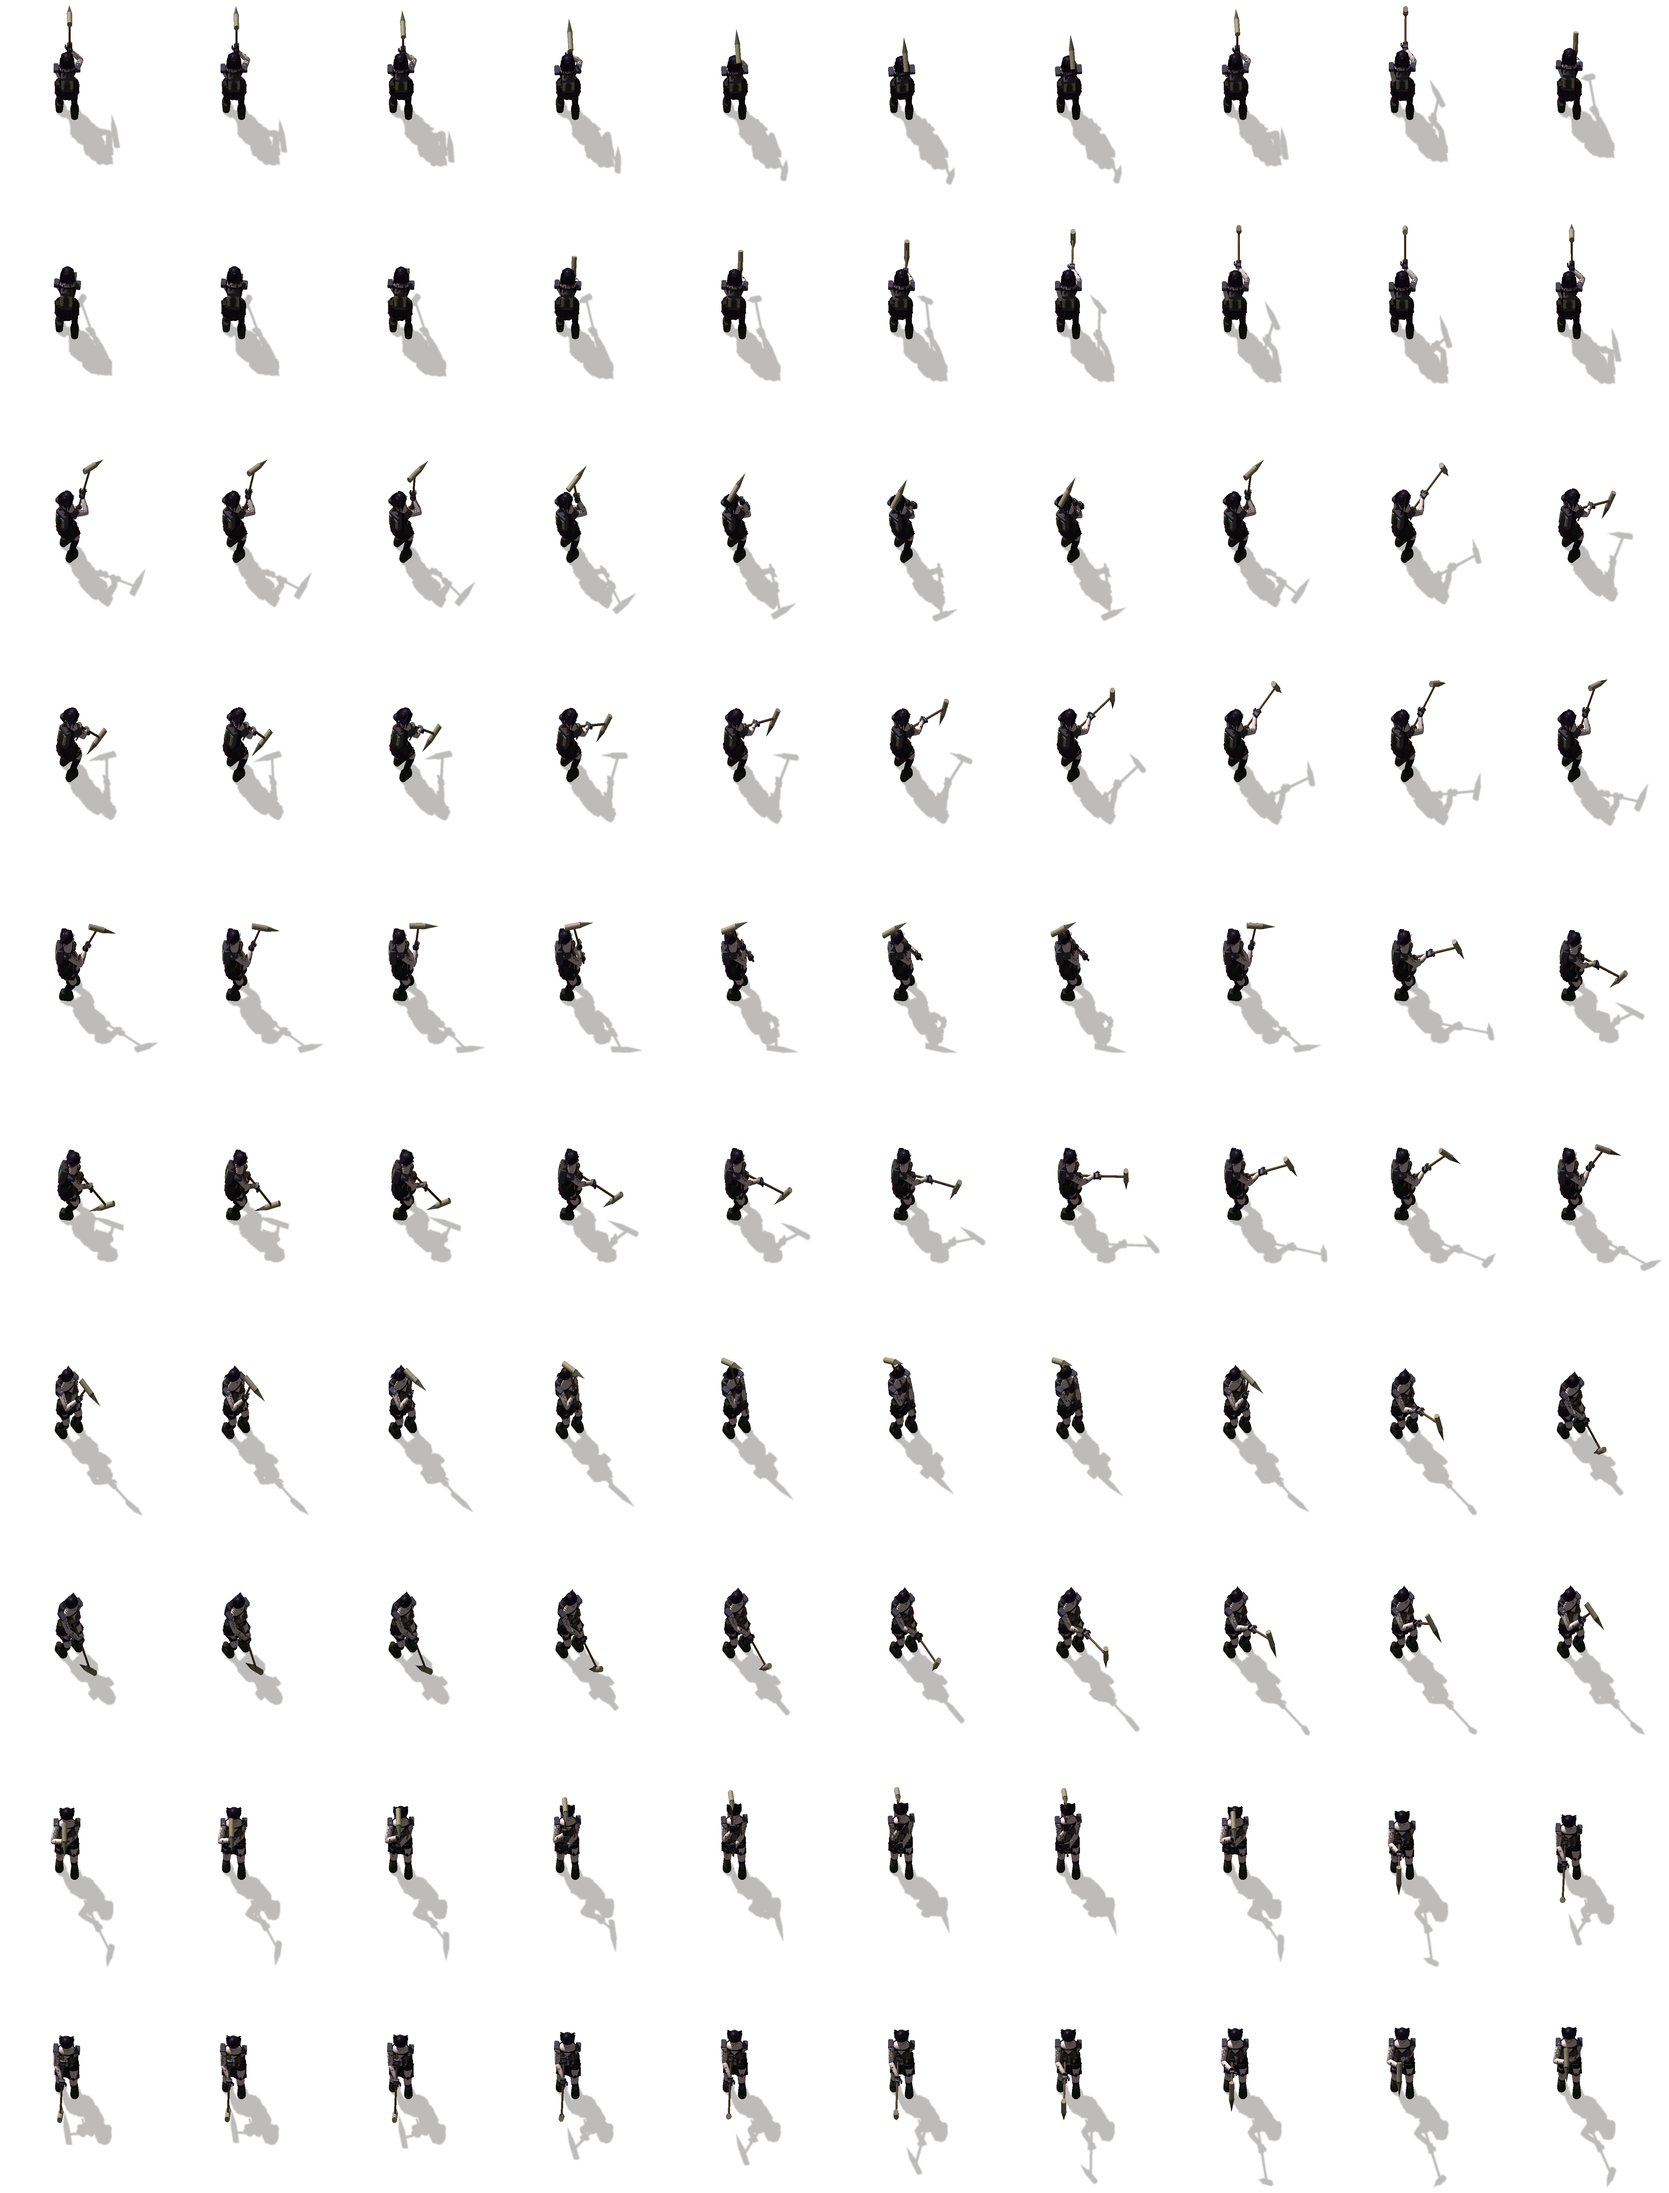
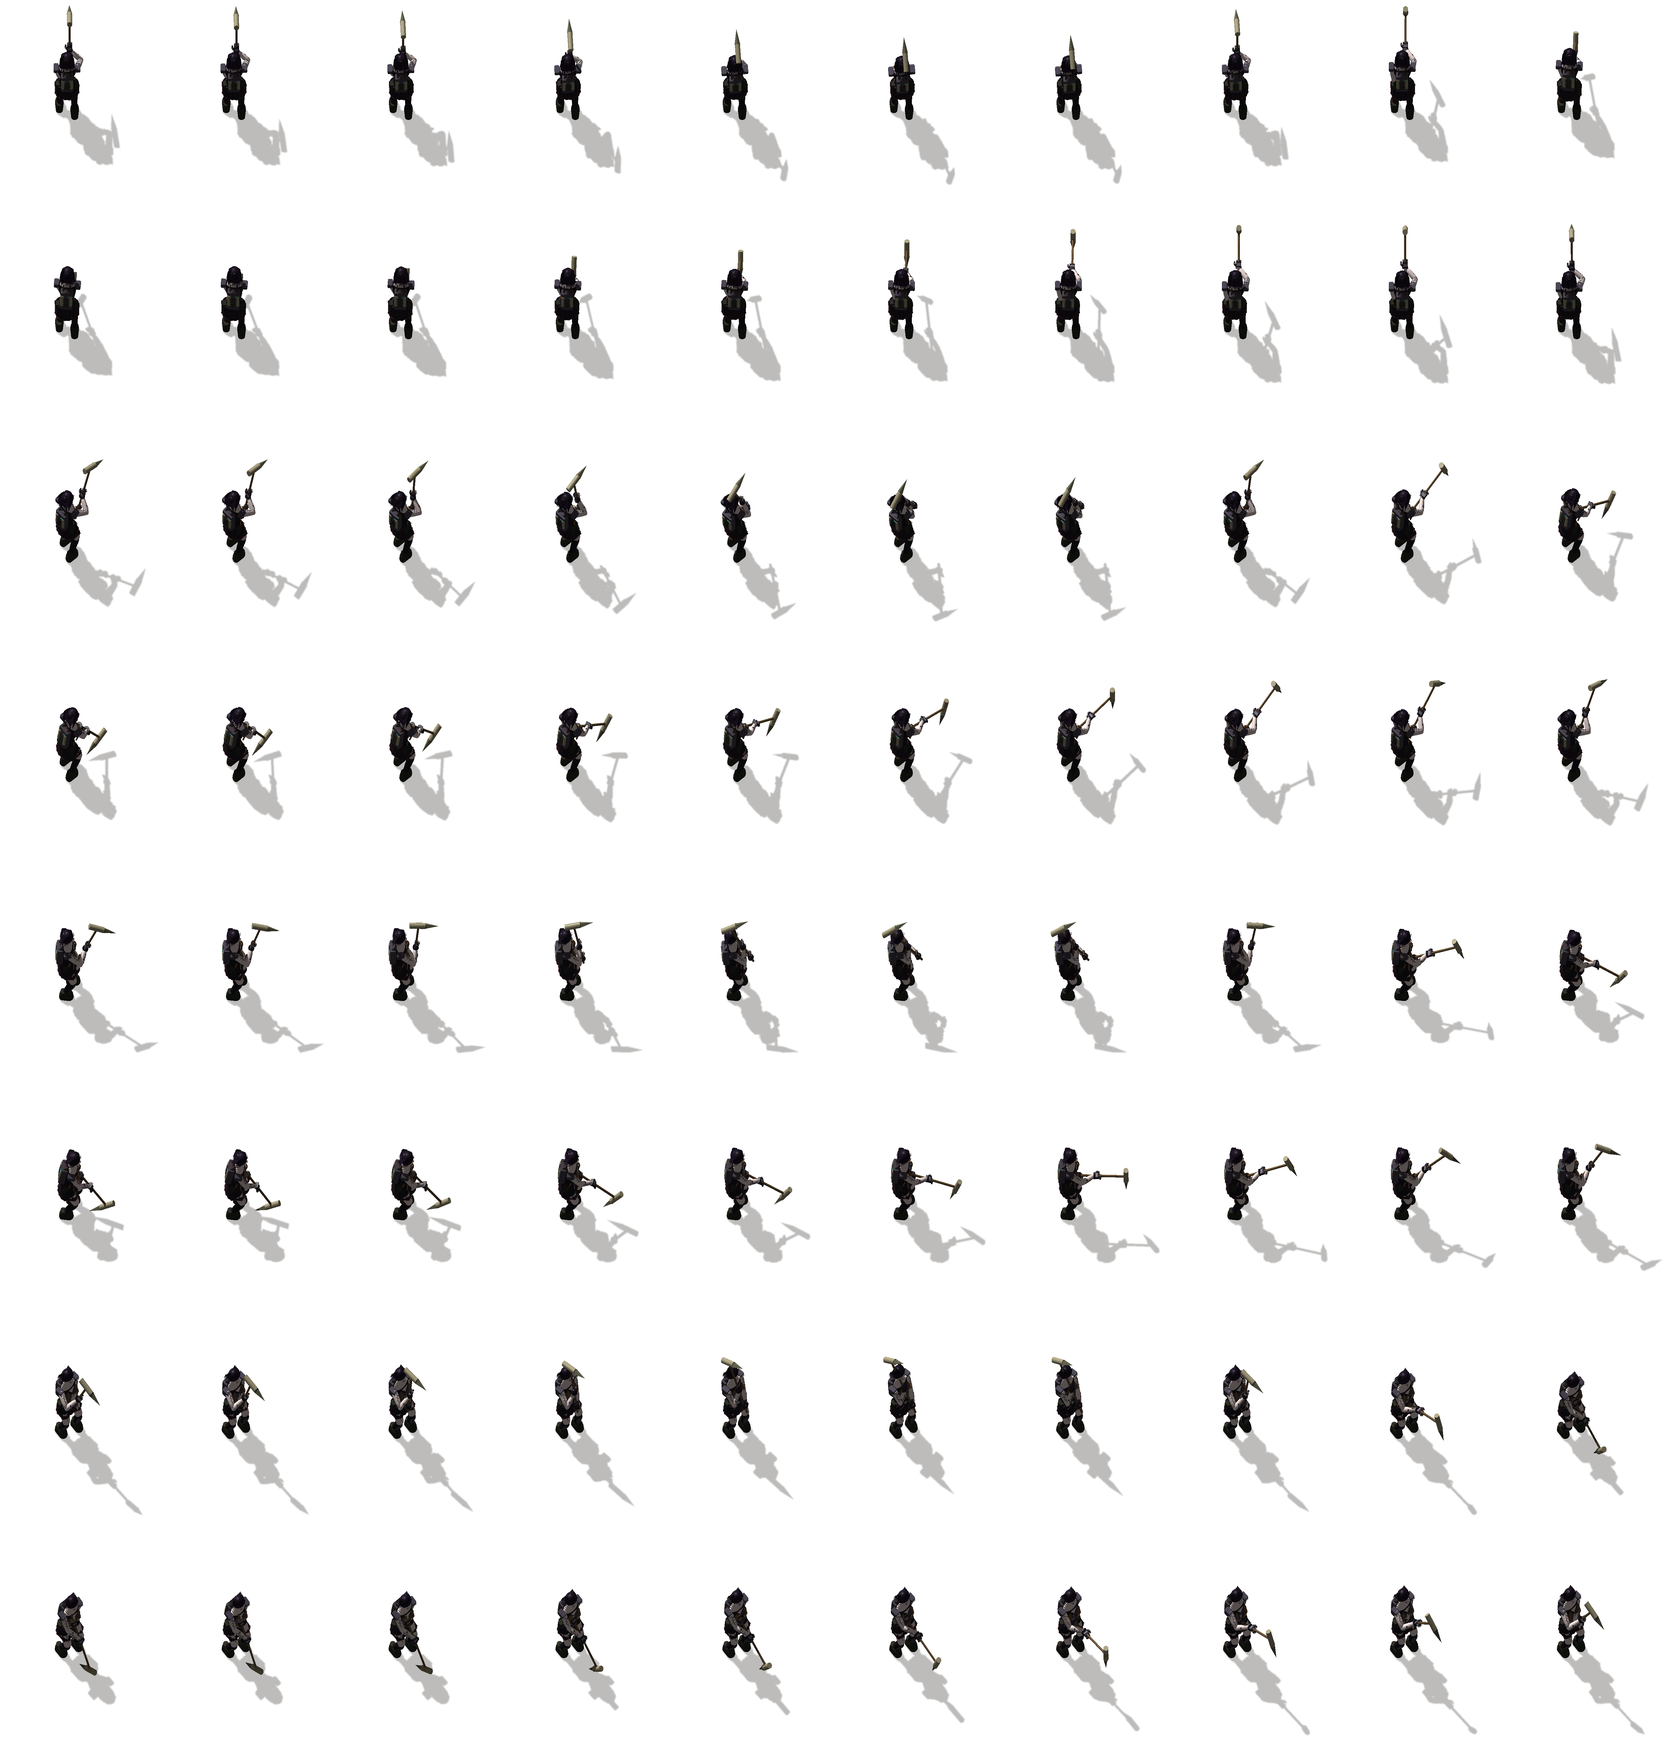
Page the explorer mining atlas the way the engine requires
The 0.10.0 re-render split explorer-*-mining_with_tool into a 10 line
page and a 6 line page for an animation with 8 directions. The engine
caps a stripe at direction_count lines and refused to load the character
prototype at all: 'Invalid stripeLine height'. Every atlas that the
engine has accepted, vanilla's included, keeps height_in_frames within
direction_count.

Page on whole directions and clamp per_page so a page never declares
more lines than the animation has directions. The mining atlases are
re-tiled from the existing frames, so all 480 frames are pixel identical
to what shipped; only the page split changed.

test_striped_atlases_declare_pages_the_engine_accepts now enforces the
rule in the Python suite, which reproduced the engine failure before the
fix, so a future re-render cannot ship an unloadable character again.

diff --git a/tests/test_nightglass_art.py b/tests/test_nightglass_art.py
@@ -37,6 +37,31 @@ def test_hd_atlases_double_texel_density_without_changing_world_scale_or_exceedi
     assert any('stripes' in manifest[name] for name in report)
 
 
+def test_striped_atlases_declare_pages_the_engine_accepts():
+    """The engine rejects a stripe that declares more lines than the animation has
+    directions with "Invalid stripeLine height", and every page must describe exactly
+    the pixels its file contains. Both are checked here so a re-render cannot ship a
+    character the game refuses to load."""
+    manifest=json.loads((ROOT/'docs/art/sprite-manifest.json').read_text())
+    striped=[(name,spec) for name,spec in manifest.items() if 'stripes' in spec]
+    assert striped
+    for name,spec in striped:
+        directions=spec['direction_count']
+        rows_per_direction=spec['frame_count']//spec['line_length']
+        lines=0
+        for stripe in spec['stripes']:
+            height_in_frames=stripe['height_in_frames']
+            assert 0<height_in_frames<=directions,(name,height_in_frames,directions)
+            assert height_in_frames%rows_per_direction==0,(name,height_in_frames)
+            assert stripe['width_in_frames']==spec['line_length'],(name,stripe['width_in_frames'])
+            path=MOD/stripe['filename'].split('__second-nature__/')[1]
+            with Image.open(path) as image:
+                assert image.size==(spec['width']*stripe['width_in_frames'],
+                                    spec['height']*height_in_frames),(name,path.name,image.size)
+            lines+=height_in_frames
+        assert lines==directions*rows_per_direction,(name,lines)
+
+
 def test_power_and_train_atlases_are_original_complete_and_have_all_directions():
     report=json.loads((ROOT/'docs/art/energy-manifest.json').read_text())
     for filename,digest in report['files'].items():assert hashlib.sha256((ROOT/filename).read_bytes()).hexdigest()==digest

diff --git a/tools/character_export.py b/tools/character_export.py
@@ -47,7 +47,10 @@ def export_pose(tier,pose,count,directions,manifest,save,jobs=2):
     width,height=crop[2]-crop[0],crop[3]-crop[1]
     columns=max(n for n in range(1,count+1) if count%n==0 and n*width<=8192)
     rows_per_direction=count//columns
-    per_page=max(1,min(directions,8192//(height*rows_per_direction)))
+    # A stripe may not declare more lines than the animation has directions: the engine
+    # rejects that with "Invalid stripeLine height". Page on whole directions and keep
+    # every page's height_in_frames (number*rows_per_direction) within direction_count.
+    per_page=max(1,min(directions,8192//(height*rows_per_direction),max(1,directions//rows_per_direction)))
     assert height*rows_per_direction<=8192
     name=f'explorer-{tier}-{pose}';folder=MOD/'graphics/entity/industry'
     chunks=[];used=[]
